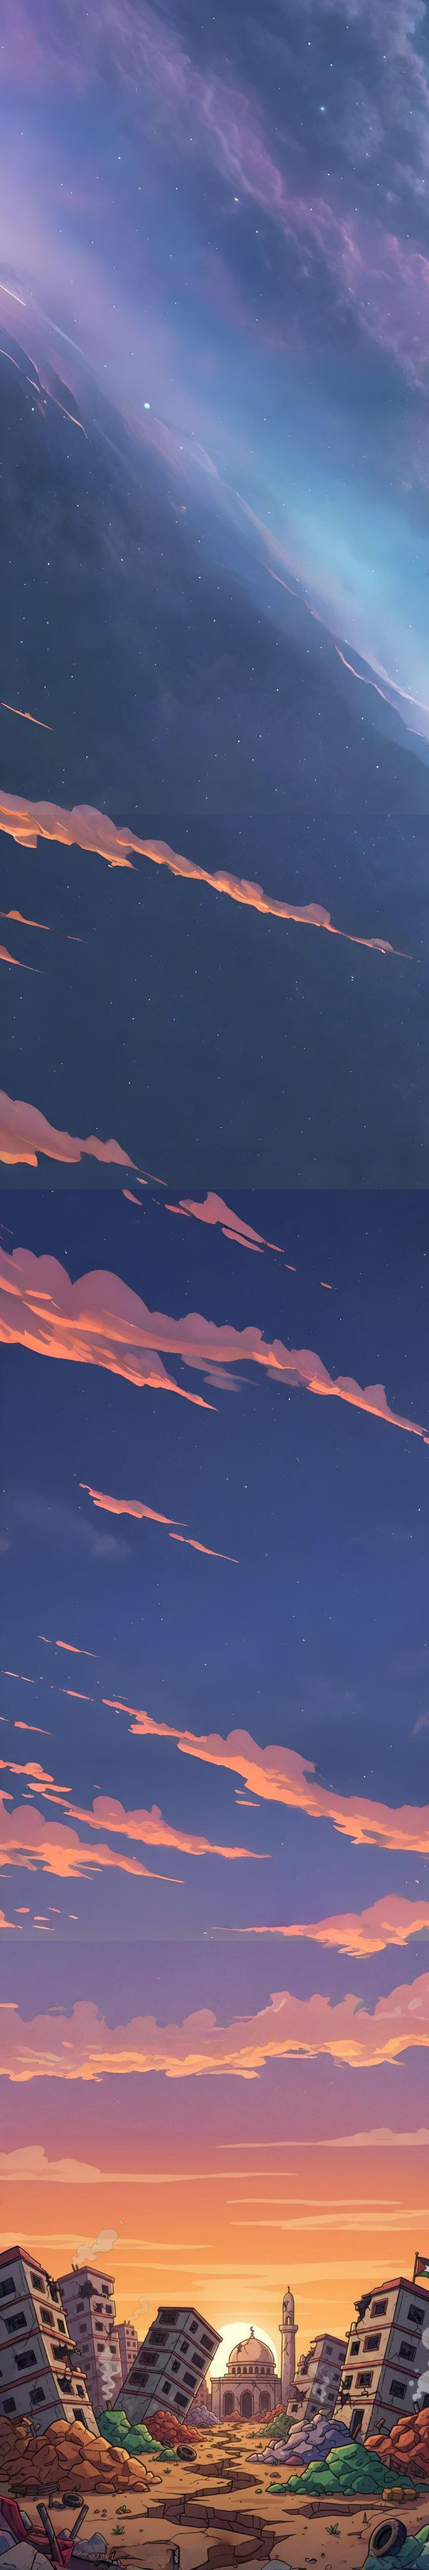
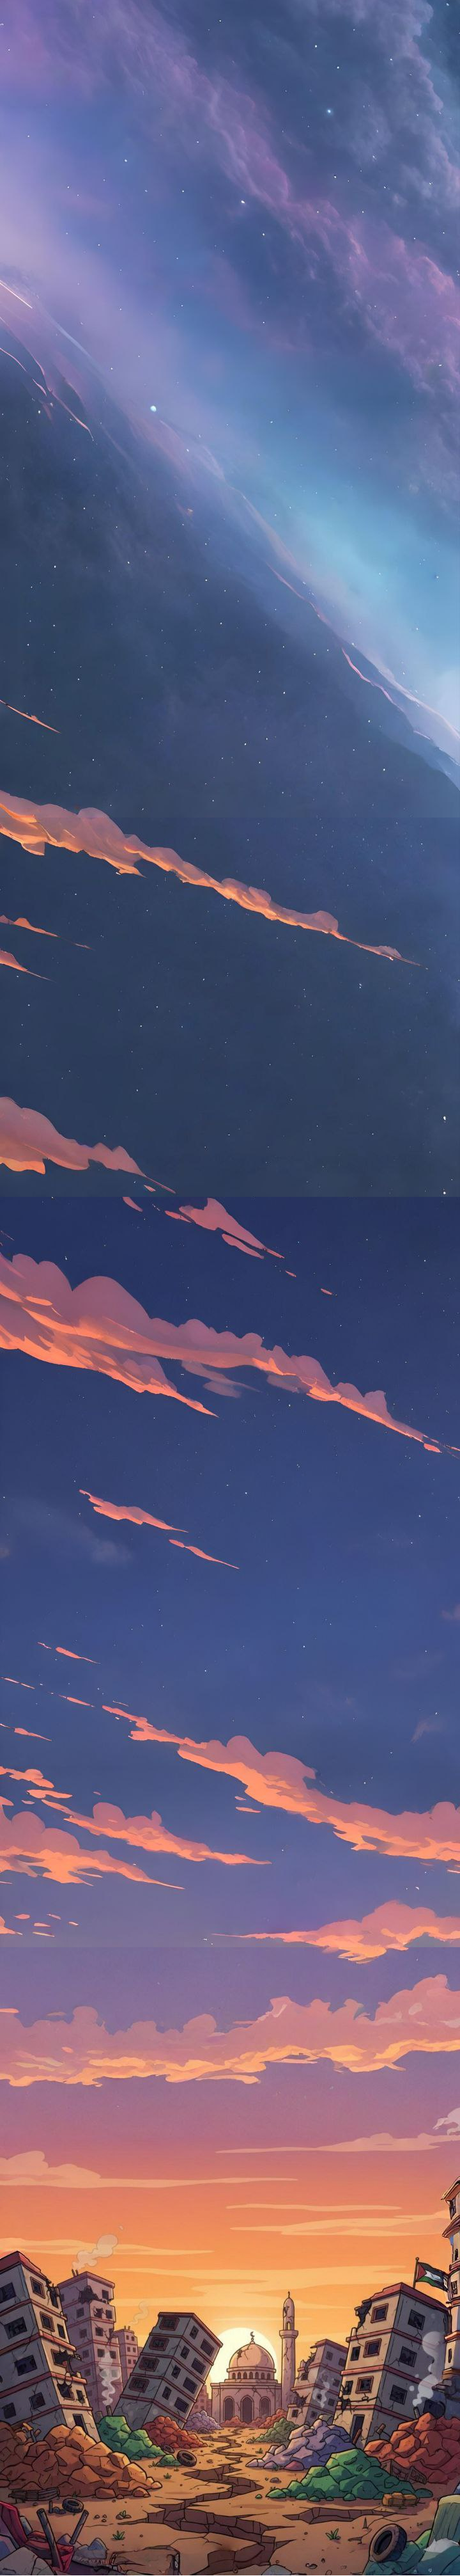
vesion 1.0.1 update
long background pic modified
settings icon fixed
scor text fixed

diff --git a/My_OOP_project/screens/game_screen.py b/My_OOP_project/screens/game_screen.py
@@ -137,8 +137,18 @@ class TowerBlockGame(Screen):
         self.is_falling = False
         self.platform_x = None
 
-        # input bind
-        self.bind(on_touch_down=self.drop_block)
+
+    def on_touch_down(self, touch):
+        # Önce çocuk widget’lara gönder (örneğin ayarlar ikonu)
+        if super().on_touch_down(touch):
+            return True
+
+        # Eğer dokunma ayarlar ikonunun üstündeyse oyuna etki etmesin
+        if self.settings_icon.collide_point(*touch.pos):
+            return True
+
+        # Oyun alanına dokunulduysa blok düşür
+        return self.drop_block(touch)
 
     def _update_bg_size(self, *args):
         # genişlik ekrana otursun
@@ -168,6 +178,7 @@ class TowerBlockGame(Screen):
 
     # --- screen lifecycle ---
     def on_enter(self):
+        self.restart_game()
         # ekran aktif olduğunda oyunu başlat ve müziği aç
         if not self.game_running:
             self.start_game()
@@ -223,6 +234,16 @@ class TowerBlockGame(Screen):
         # ilk bloğu bırak
         Clock.schedule_once(self.drop_first_block, 0.8)
 
+    def setting_icon_and_score_text_front_taker(self):
+        # settings icon and scor text become front!
+        self.layout.remove_widget(self.score_label)
+        self.layout.remove_widget(self.max_score_label)
+        self.layout.remove_widget(self.settings_icon)
+
+        self.layout.add_widget(self.score_label)
+        self.layout.add_widget(self.max_score_label)
+        self.layout.add_widget(self.settings_icon)
+
     def drop_first_block(self, dt):
         # önce varsa eski blokları kaldır (güvenlik)
         if self.moving_block:
@@ -234,6 +255,8 @@ class TowerBlockGame(Screen):
         self.moving_right = True
         self.is_falling = False
         Clock.schedule_interval(self.move_block, 1 / 60)
+        self.setting_icon_and_score_text_front_taker()
+
 
     def move_block(self, dt):
         if not self.game_running or self.is_falling or not self.moving_block:
@@ -336,15 +359,6 @@ class TowerBlockGame(Screen):
         return overlap / BLOCK_WIDTH
 
     def spawn_new_block(self):
-        # if self.score > 30:
-        #     image_source = "assets/tower4.png"
-        # elif self.score > 20:
-        #     image_source = "assets/tower3.png"
-        # elif self.score > 10:
-        #     image_source = "assets/tower2.png"
-        # else:
-        #     image_source = "assets/tower1.png"
-
         if self.score < 10:
             image_source = "assets/tower1.png"
         elif self.score < 20:
@@ -371,6 +385,7 @@ class TowerBlockGame(Screen):
         # zamanlayıcıyı (move_block) tekrar ayarla
         Clock.unschedule(self.move_block)
         Clock.schedule_interval(self.move_block, 1 / 60)
+        self.setting_icon_and_score_text_front_taker()
 
     def end_game(self):
         # oyun bitti sesi
